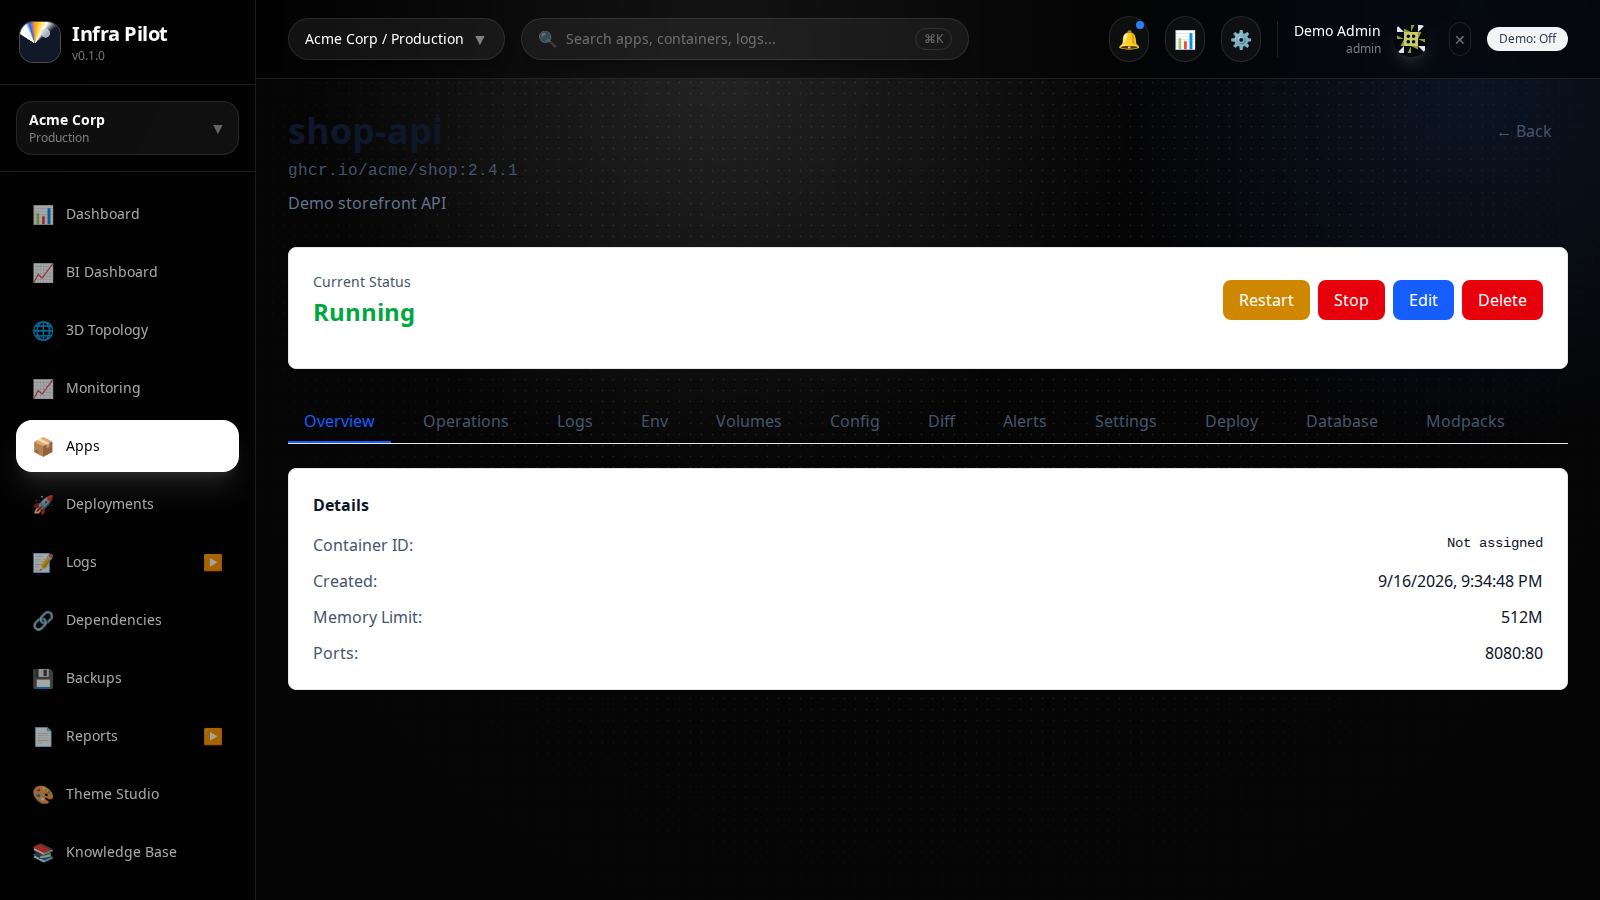
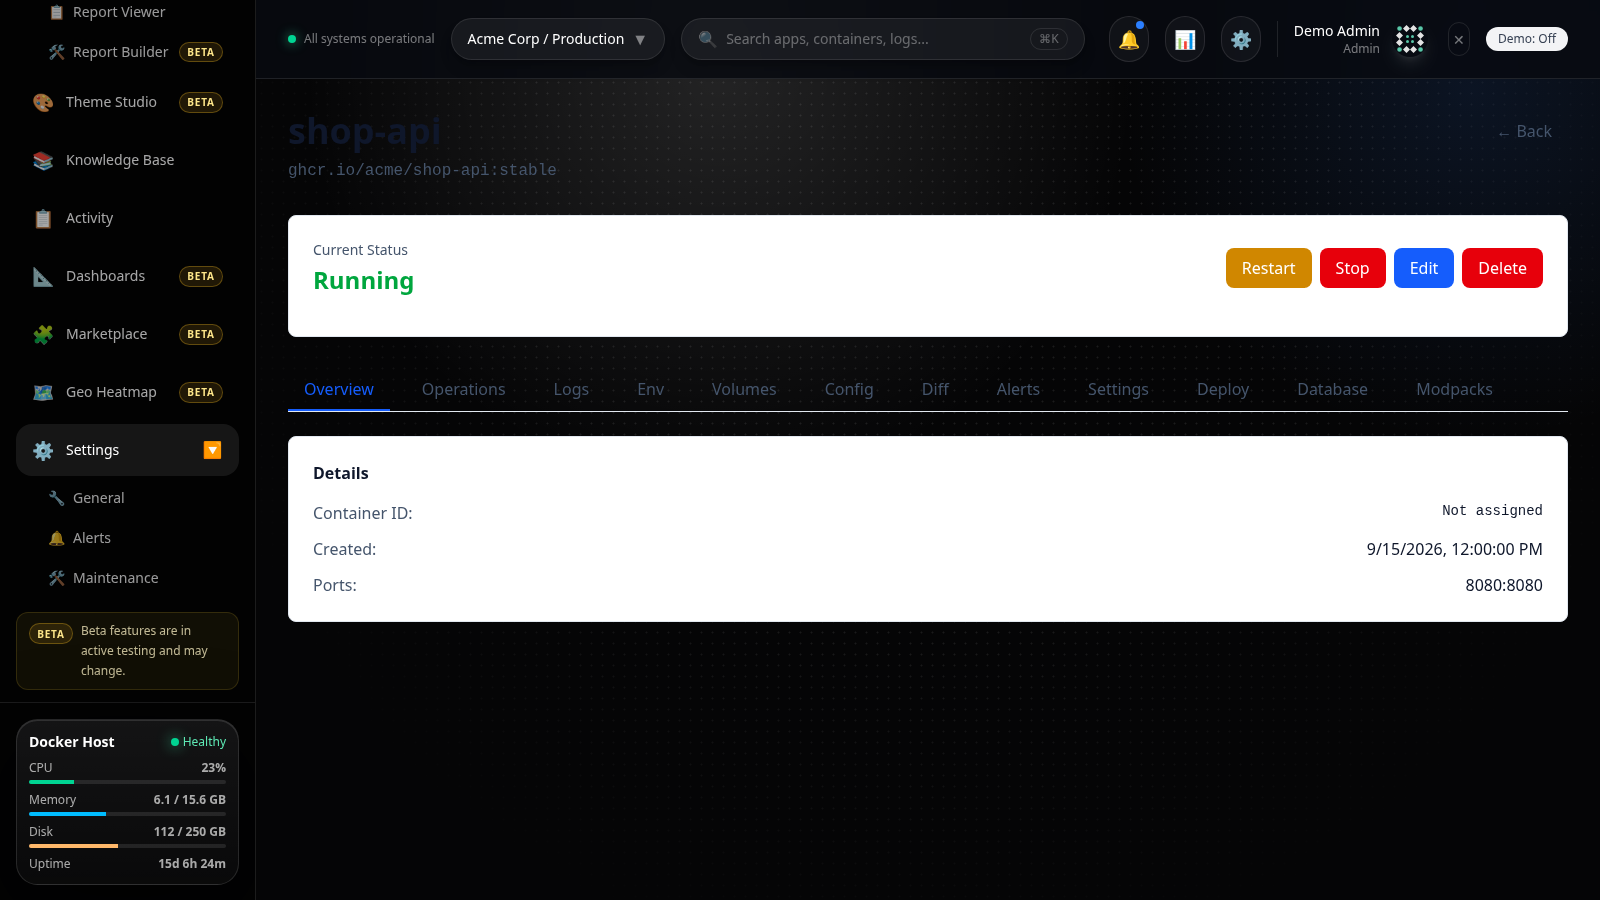
Feat/modernize UI beta labels (#427)
* feat(panel): modernize shell and label beta features

* refactor(panel): scope page-enter animation to utility class

* style(panel): drop unused FormattedMessage import

* fix(panel): align beta notice and brighten section label

* fix(scripts): make capture-script API origin configurable

* chore(scripts): replace deprecated waitForTimeout

* feat(panel): wire operational pill to backend health

* fix(scripts): isolate captures per context, skip tour

* fix(scripts): match demo mock to DockerApp shape

* fix(scripts): mock backup and maintenance endpoints

* docs(screenshots): regenerate captures for beta UI

* docs(scripts): Add JSDoc for screenshot capture helpers

* fix(panel): refresh API health and correct badge and screenshot issues

---------

diff --git a/services/management-panel/src/components/Sidebar.tsx b/services/management-panel/src/components/Sidebar.tsx
@@ -1,6 +1,5 @@
 import { useNavigate, useLocation } from "react-router";
 import { useState } from "react";
-import { useIntl } from "react-intl";
 import { useConfig } from "../lib/types";
 import { LanguageSelector } from "../i18n/LanguageSelector";
 
@@ -11,6 +10,7 @@ interface SidebarItem {
   route?: string;
   children?: SidebarItem[];
   attrs?: Record<string, string>;
+  beta?: boolean;
 }
 
 const SimpleLogo = ({ size = 32 }: { size?: number }) => (
@@ -32,7 +32,6 @@ export const Sidebar = ({
   const navigate = useNavigate();
   const location = useLocation();
   const { mode } = useConfig();
-  const intl = useIntl();
   const [expandedItems, setExpandedItems] = useState<string[]>([]);
 
   const toggleExpanded = (id: string) => {
@@ -53,12 +52,14 @@ export const Sidebar = ({
       label: "BI Dashboard",
       icon: "📈",
       route: "/bi-dashboard",
+      beta: true,
     },
     {
       id: "topology",
       label: "3D Topology",
       icon: "🌐",
       route: "/topology",
+      beta: true,
     },
     {
       id: "monitoring",
@@ -79,13 +80,14 @@ export const Sidebar = ({
       label: "Deployments",
       icon: "🚀",
       route: "/deployments",
+      beta: true,
     },
     {
       id: "logs",
       label: "Logs",
       icon: "📝",
       children: [
-        { id: "live-logs", label: "Live Logs", icon: "📋", route: "/logs" },
+        { id: "live-logs", label: "Live Logs", icon: "📋", route: "/logs", beta: true },
         {
           id: "access-logs",
           label: "Access Logs",
@@ -107,18 +109,21 @@ export const Sidebar = ({
             label: "Billing",
             icon: "💳",
             route: "/billing",
+            beta: true,
           },
           {
             id: "cost-analytics",
             label: "Cost Analytics",
             icon: "💰",
             route: "/cost-analytics",
+            beta: true,
           },
           {
             id: "teams",
             label: "Teams",
             icon: "👨💼",
             route: "/teams",
+            beta: true,
           },
         ]
       : []),
@@ -127,6 +132,7 @@ export const Sidebar = ({
       label: "Dependencies",
       icon: "🔗",
       route: "/dependencies",
+      beta: true,
     },
     {
       id: "backups",
@@ -151,6 +157,7 @@ export const Sidebar = ({
           label: "Report Builder",
           icon: "🛠",
           route: "/reports/builder",
+          beta: true,
         },
       ],
     },
@@ -159,6 +166,7 @@ export const Sidebar = ({
       label: "Theme Studio",
       icon: "🎨",
       route: "/theme-studio",
+      beta: true,
     },
     {
       id: "knowledge-base",
@@ -177,18 +185,21 @@ export const Sidebar = ({
       label: "Dashboards",
       icon: "📐",
       route: "/dashboard-builder",
+      beta: true,
     },
     {
       id: "marketplace",
       label: "Marketplace",
       icon: "🧩",
       route: "/marketplace",
+      beta: true,
     },
     {
       id: "geo-heatmap",
       label: "Geo Heatmap",
       icon: "🗺",
       route: "/geo-heatmap",
+      beta: true,
     },
     {
       id: "settings",
@@ -273,7 +284,10 @@ export const Sidebar = ({
         </div>
 
         {/* Navigation Items */}
-        <nav className="flex-1 space-y-1.5 p-4">
+        <nav className="flex-1 space-y-1.5 p-4" aria-label="Primary navigation">
+          <p className="px-3 pb-2 text-[0.65rem] font-semibold uppercase tracking-[0.2em] text-white/45">
+            Workspace
+          </p>
           {sidebarItems.map((item) => (
             <div key={item.id}>
               <button
@@ -295,6 +309,7 @@ export const Sidebar = ({
                 <span className="text-sm font-medium flex-1 text-left">
                   {item.label}
                 </span>
+                {item.beta && <span className="beta-badge">Beta</span>}
                 {item.children && (
                   <span
                     className={`transition-transform ${
@@ -320,7 +335,8 @@ export const Sidebar = ({
                       }`}
                     >
                       <span>{child.icon}</span>
-                      <span>{child.label}</span>
+                      <span className="flex-1 text-left">{child.label}</span>
+                      {child.beta && <span className="beta-badge">Beta</span>}
                     </button>
                   ))}
                 </div>
@@ -328,6 +344,11 @@ export const Sidebar = ({
             </div>
           ))}
         </nav>
+
+        <div className="mx-4 mb-3 flex items-start gap-2 rounded-xl border border-amber-300/15 bg-amber-300/[0.06] px-3 py-2 text-xs leading-5 text-amber-100/75">
+          <span className="beta-badge mt-0.5 shrink-0">Beta</span>
+          Beta features are in active testing and may change.
+        </div>
 
         {/* Docker Host Status */}
         <div className="space-y-3 border-t border-white/10 p-4">

diff --git a/services/management-panel/src/components/MainLayout.tsx b/services/management-panel/src/components/MainLayout.tsx
@@ -1,6 +1,5 @@
 import { Outlet, useNavigate } from "react-router";
 import { useState, useEffect } from "react";
-import { FormattedMessage } from "react-intl";
 import { apiClient } from "../lib/api";
 import { clearAccessToken } from "../lib/auth";
 import { useConfig } from "../lib/types";
@@ -13,8 +12,29 @@ export const MainLayout = () => {
   const navigate = useNavigate();
   const { mode } = useConfig();
   const [user, setUser] = useState<any>(null);
+  const [healthy, setHealthy] = useState<boolean | null>(null);
   const [searchQuery, setSearchQuery] = useState("");
   const [sidebarOpen, setSidebarOpen] = useState(false);
+
+  useEffect(() => {
+    let active = true;
+    let timer: ReturnType<typeof setTimeout>;
+    const checkHealth = async () => {
+      try {
+        await apiClient.health();
+        if (active) setHealthy(true);
+      } catch {
+        if (active) setHealthy(false);
+      }
+      // Wait between completed checks to avoid overlapping requests.
+      if (active) timer = setTimeout(checkHealth, 30_000);
+    };
+    void checkHealth();
+    return () => {
+      active = false;
+      clearTimeout(timer);
+    };
+  }, []);
 
   useEffect(() => {
     const loadUser = async () => {
@@ -47,11 +67,27 @@ export const MainLayout = () => {
       {/* Main Content */}
       <div className="flex-1 flex flex-col ara-surface">
         {/* Header */}
-        <header className="sticky top-0 z-20 border-b border-white/10 bg-black/45 backdrop-blur-2xl">
+        <header className="sticky top-0 z-20 border-b border-white/10 bg-[#080a10]/80 backdrop-blur-2xl">
           <div className="px-4 py-4 sm:px-6 lg:px-8">
             <div className="flex items-center justify-between gap-6">
               {/* Organization Selector & Search */}
               <div className="flex items-center gap-4 flex-1">
+                <div className="hidden items-center gap-2 text-xs font-medium text-white/45 xl:flex">
+                  <span
+                    className={
+                      healthy === null
+                        ? "h-2 w-2 rounded-full bg-white/40"
+                        : healthy
+                          ? "h-2 w-2 rounded-full bg-emerald-400 shadow-[0_0_12px_rgba(52,211,153,0.8)]"
+                          : "h-2 w-2 rounded-full bg-red-400 shadow-[0_0_12px_rgba(248,113,113,0.8)]"
+                    }
+                  />
+                  {healthy === null
+                    ? "Checking management-panel API…"
+                    : healthy
+                      ? "Management-panel API operational"
+                      : "Degraded — check monitoring"}
+                </div>
                 <button
                   onClick={() => setSidebarOpen(true)}
                   className="md:hidden rounded-full border border-white/10 bg-white/5 p-2 text-white/60 transition-colors hover:bg-white/10 hover:text-white"
@@ -149,7 +185,9 @@ export const MainLayout = () => {
         {/* Main Content Area */}
         <main className="flex-1 overflow-auto" id="main-content">
           <div className="p-4 sm:p-6 lg:p-8">
-            <Outlet />
+            <div className="page-enter mx-auto w-full max-w-[1600px]">
+              <Outlet />
+            </div>
           </div>
         </main>
       </div>

diff --git a/services/management-panel/src/index.css b/services/management-panel/src/index.css
@@ -166,7 +166,7 @@ body {
 
 /* Ara-inspired premium shell */
 html {
-  background: #050506;
+  background: #080a10;
 }
 
 body {
@@ -182,7 +182,7 @@ body {
       rgba(99, 102, 241, 0.16),
       transparent 18rem
     ),
-    #050506;
+    #080a10;
 }
 
 body::before {

diff --git a/docs/screenshots/README.md b/docs/screenshots/README.md
@@ -1,15 +1,9 @@
 # Screenshots
 
-Real captures from a running stack with demo data (see capture log).
-Capture environment: `vite preview :5173` plus panel API `:3001`,
-backed by a minimal local Supabase stub (`127.0.0.1:54321`) with a
-seeded demo account (3 apps, metrics, backup jobs). No real hostnames,
-no secrets, no personal data — demo names only (`Acme Corp`,
-`shop-api`, `admin@example.com`).
-
-Authenticated views (dashboard, monitoring, apps, backups, settings)
-need a completed setup; the captures below show them logged in as the
-demo admin. The word "screenshot" is reserved for real captures.
+Browser captures use safe demo API responses (three demo apps and a demo
+admin) rather than a live customer account. The capture process requires only
+the local Vite frontend; no real hostnames, secrets, or personal data appear
+in the images.
 
 ---
 
@@ -17,16 +11,16 @@ demo admin. The word "screenshot" is reserved for real captures.
 
 | File | Status | Captured from | Date |
 | --- | --- | --- | --- |
-| `01-dashboard.png` | verified | `/dashboard`, demo stack v0.1.0 | 2026-09-28 |
-| `02-monitoring.png` | verified | `/monitoring` (shop-api selected), demo stack v0.1.0 | 2026-09-28 |
-| `03-applications.png` | verified | `/apps/:id` (shop-api detail), demo stack v0.1.0 | 2026-09-28 |
-| `04-backups.png` | verified | `/backups`, demo stack v0.1.0 | 2026-09-28 |
-| `05-cli-gitops.png` | verified | `/settings`, demo stack v0.1.0 | 2026-09-28 |
-| `tour.gif` | concept | — | — |
+| `01-dashboard.png` | verified | `/dashboard`, self-contained demo capture v0.1.0 | 2026-10-01 |
+| `02-monitoring.png` | verified | `/monitoring` (shop-api selected), self-contained demo capture v0.1.0 | 2026-10-01 |
+| `03-applications.png` | verified | `/apps/:id` (shop-api detail), self-contained demo capture v0.1.0 | 2026-10-01 |
+| `04-backups.png` | verified | `/backups`, self-contained demo capture v0.1.0 | 2026-10-01 |
+| `05-cli-gitops.png` | verified | `/settings`, self-contained demo capture v0.1.0 | 2026-10-01 |
+| `tour.gif` | verified | generated from the five current captures | 2026-10-01 |
 
-Promoting a file to `verified` requires: capture from a running
-stack via `scripts/capture-screenshots.mjs`, plus version, date, and
-environment filled in above. One verified view of the highest-value
+Promoting a file to `verified` requires a browser capture via
+`scripts/capture-screenshots.mjs`, plus version, date, and environment filled
+in above. One verified view of the highest-value
 workflow beats five more concepts.
 
 ---
@@ -40,42 +34,35 @@ workflow beats five more concepts.
 | `03-applications.png` | App detail with status and ports | Matches `src/pages/AppDetail.tsx` |
 | `04-backups.png` | Retention stats and demo backup jobs | Matches `src/pages/Backups.tsx` |
 | `05-cli-gitops.png` | Settings (general, 2FA, metrics) | Matches `src/pages/Settings.tsx` |
-| `tour.gif` | Captioned tour of the intended views (mockup) | Generated, 720x405, under 500 KB |
+| `tour.gif` | Rotating tour of the current UI captures | Generated from current PNGs, 800x450, under 500 KB |
 
-All PNG images are `1600x900`. The tour GIF is kept small
+All PNG images are `1600x900`. The tour GIF is generated from the current captures and kept small
 enough to pass the `check-added-large-files` hook.
 
 ---
 
 ## Regenerating
 
-Use real browser captures for future updates. The historical mockup process is
-not reproducible from this repository and is documented below for context.
+Use browser captures for future updates. The capture script includes safe demo
+API responses, so it can run without a separate backend or personal data.
 
 ### 1. Real browser captures (preferred)
 
-Requires Node.js 22+ and a running stack:
+Requires Node.js 22+, Playwright Chromium, the local Vite frontend, and
+Python 3 with Pillow installed (`python3 -m pip install Pillow`) to rebuild the GIF:
 
 ```bash
 cd services/management-panel
-npm install
+npm install --legacy-peer-deps
 npx playwright install chromium
-npm run dev &
+npm run dev:frontend &
 node ../../scripts/capture-screenshots.mjs
+python3 -c "from PIL import Image; from pathlib import Path; p=Path('../../docs/screenshots'); f=[Image.open(p / n).convert('RGB').resize((800, 450)).convert('P', palette=Image.Palette.ADAPTIVE) for n in ['01-dashboard.png', '02-monitoring.png', '03-applications.png', '04-backups.png', '05-cli-gitops.png']]; f[0].save(p / 'tour.gif', save_all=True, append_images=f[1:], duration=1800, loop=0, optimize=True)"
 ```
 
-The script navigates the local panel, seeds demo state where
-possible, and overwrites this folder. Review diffs before
-committing; mask secrets and personal data.
-
-### 2. Historical mockups
-
-Before 2026-09-28 the five PNGs were mockups generated by an external
-tool that is not tracked in this repository. They were replaced by real
-captures on that date (see capture log); the previous versions remain
-in git history. Only `tour.gif` is still a mockup. Use
-`scripts/capture-screenshots.mjs` for future updates and keep text
-generic (`Acme Corp`, `shop-api`) while avoiding real hostnames.
+The script navigates the local panel with intercepted demo responses and
+overwrites the PNGs. The final command rebuilds the rotating GIF from those
+captures. Review diffs before committing; mask secrets and personal data.
 
 ---
 
